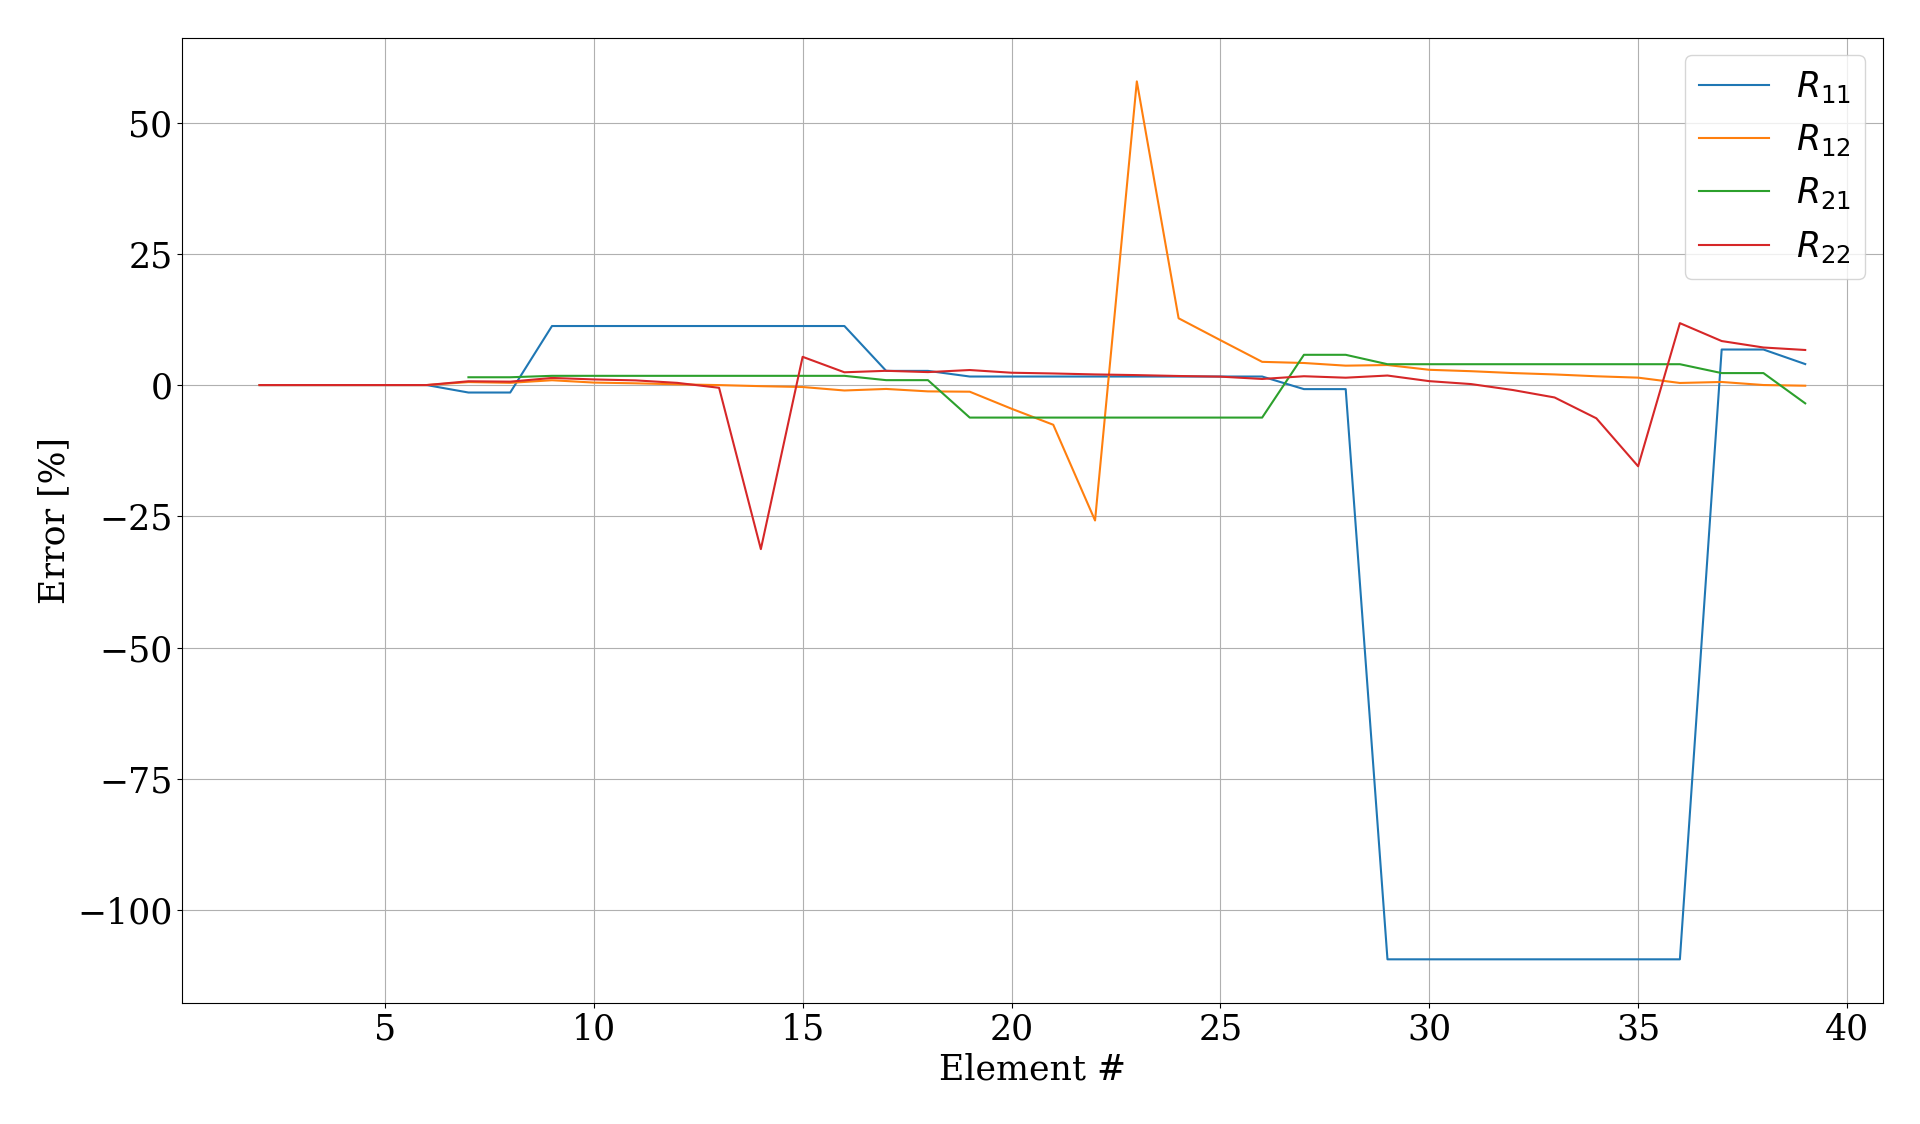
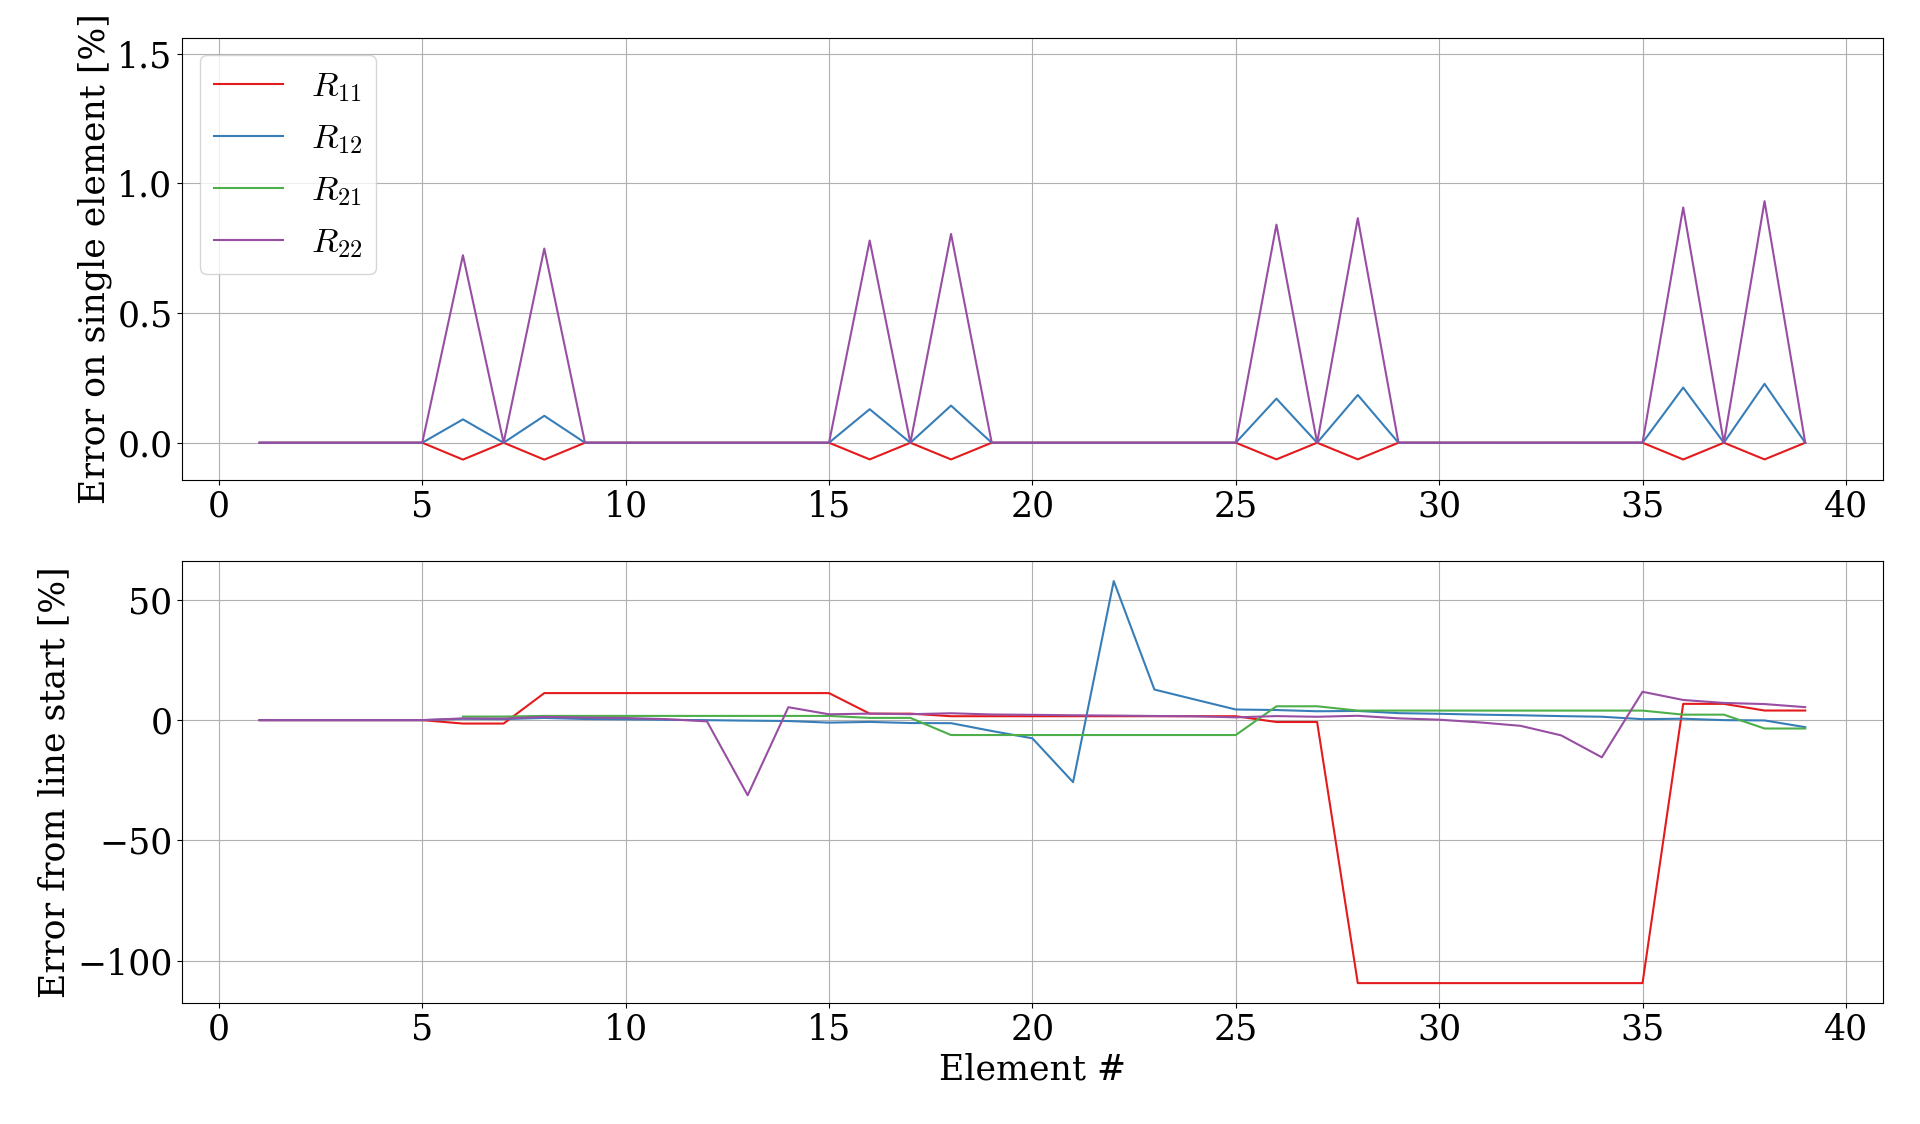
Now possible to compare MT of single elements and of the whole line.

diff --git a/source/debug.py b/source/debug.py
@@ -30,60 +30,75 @@ def plot_error_on_transfer_matrices_components(LINAC):
         Accelerator under study.
     """
     n_elts = LINAC.n_elements
-    err = np.full((2, 2, n_elts), np.NaN)
-    idx_min = 0
-    i = 0
+    # In this array we store the errors of individual elements
+    err_single = np.full((2, 2, n_elts), np.NaN)
+    # Here we store the error of the line
+    err_tot = np.full((2, 2, n_elts), np.NaN)
     R_zz_tot = np.eye(2)
+    R_zz_tot_ref = np.eye(2)
 
-    for idx_max in range(idx_min + 1, idx_min + 1 + n_elts):
-        R_zz_next = LINAC.R_zz[:, :, idx_max - 1]
+    for i in range(n_elts):
+        R_zz_next = LINAC.R_zz[:, :, i]
         R_zz_tot = np.matmul(R_zz_tot, R_zz_next)
-        err[:, :, i] = compare_to_TW(R_zz_tot, idx_min=idx_min,
-                                     idx_max=idx_max)
-        i += 1
+
+        R_zz_single_ref = import_transfer_matrix_single(i)
+        R_zz_tot_ref = np.matmul(R_zz_tot_ref, R_zz_single_ref)
+
+        err_single[:, :, i] = 100. * np.divide(
+            (R_zz_single_ref - R_zz_next),
+            R_zz_single_ref)
+
+        err_tot[:, :, i] = 100. * np.divide((R_zz_tot_ref - R_zz_tot),
+                                            R_zz_tot_ref)
 
     if(plt.fignum_exists(20)):
         fig = plt.figure(20)
-        ax = fig.axes[0]
+        ax1 = fig.axes[0]
+        ax2 = fig.axes[1]
     else:
         fig = plt.figure(20)
-        ax = fig.add_subplot(111)
+        ax1 = fig.add_subplot(211)
+        ax2 = fig.add_subplot(212)
+
     elt_array = np.linspace(1, n_elts, n_elts, dtype=int)
-    ax.plot(elt_array, err[0, 0, :], label=r'$R_{11}$')
-    ax.plot(elt_array, err[0, 1, :], label=r'$R_{12}$')
-    ax.plot(elt_array, err[1, 0, :], label=r'$R_{21}$')
-    ax.plot(elt_array, err[1, 1, :], label=r'$R_{22}$')
-    ax.legend()
-    ax.grid(True)
-    ax.set_xlabel('Element #')
-    ax.set_ylabel('Error [%]')
+    ax1.plot(elt_array, err_single[0, 0, :], label=r'$R_{11}$')
+    ax1.plot(elt_array, err_single[0, 1, :], label=r'$R_{12}$')
+    ax1.plot(elt_array, err_single[1, 0, :], label=r'$R_{21}$')
+    ax1.plot(elt_array, err_single[1, 1, :], label=r'$R_{22}$')
+    ax2.plot(elt_array, err_tot[0, 0, :])
+    ax2.plot(elt_array, err_tot[0, 1, :])
+    ax2.plot(elt_array, err_tot[1, 0, :])
+    ax2.plot(elt_array, err_tot[1, 1, :])
+    ax1.legend()
+    ax1.grid(True)
+    ax2.grid(True)
+    ax1.set_ylabel('Error on single element [%]')
+    ax2.set_ylabel('Error from line start [%]')
+    ax2.set_xlabel('Element #')
 
 
-def compare_to_TW(R_zz, idx_min, idx_max):
+def import_transfer_matrix_single(idx_element):
     """
-    Compare the transfer matrix calculated by LightWin with TraceWin.
+    Import the i-th element transfer matrix.
 
     Parameters
     ----------
-    R_zz: np.array
-        Transfer matrix between elements idx_min and idx_max.
-    idx_min: integer
-        Min index.
-    idx_max: integer
-        index.
+    idx_element: integer
+        Index of the desired transfer matrix.
     """
     filepath = '../data/matrix_ref.txt'
-    flag_output_errors = False
-    R_zz_ref = np.eye(2)
+    flag_output = False
     i = 0
+    R_zz_single_ref = np.full((2, 2), np.NaN)
 
     with open(filepath) as file:
         for line in file:
             elt_number = i // 8
-            if(elt_number < idx_min):
+
+            if(elt_number < idx_element):
                 i += 1
                 continue
-            elif(elt_number == idx_max):
+            elif(elt_number > idx_element):
                 break
             else:
                 if(i % 8 == 6):
@@ -93,21 +108,15 @@ def compare_to_TW(R_zz, idx_min, idx_max):
                 elif(i % 8 == 7):
                     line2 = np.fromstring(line, dtype=float,
                                           count=6, sep=' ')[-2:]
-                    R_zz_elt = np.vstack((line1, line2))
-                    R_zz_ref = np.matmul(R_zz_ref, R_zz_elt)
-                i += 1
+                    R_zz_single_ref = np.vstack((line1, line2))
+            i += 1
 
-    R_zz_comp = np.divide((R_zz_ref - R_zz), R_zz_ref) * 100.
-
-    if(flag_output_errors):
-        print('TraceWin R_zz:\n', R_zz_ref)
-        print(' ')
-        print('LightWin R_zz:\n', R_zz)
-        print(' ')
-        print('Comparison:\n', R_zz_comp)
+    if(flag_output):
+        print('TraceWin R_zz:\n', R_zz_single_ref)
+        print(' ', i)
         print('==============================================================')
         print(' ')
-    return R_zz_comp
+    return R_zz_single_ref
 
 
 def compare_energies(LINAC):

diff --git a/source/main.py b/source/main.py
@@ -44,4 +44,4 @@ LINAC.create_struture_from_dat_file(filepath)
 LINAC.compute_transfer_matrix_and_gamma()
 
 plot_error_on_transfer_matrices_components(LINAC)
-# compare_energies(LINAC)
+compare_energies(LINAC)
